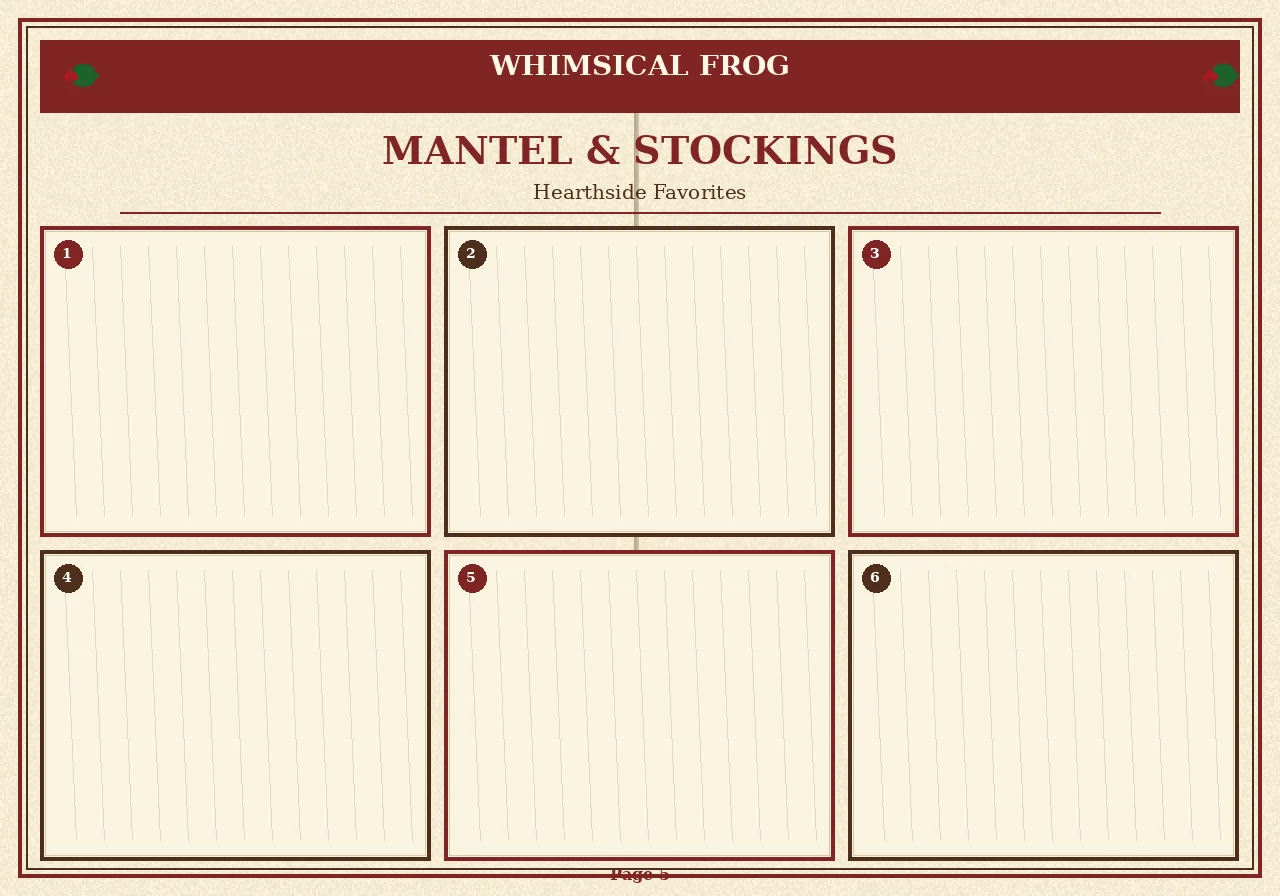
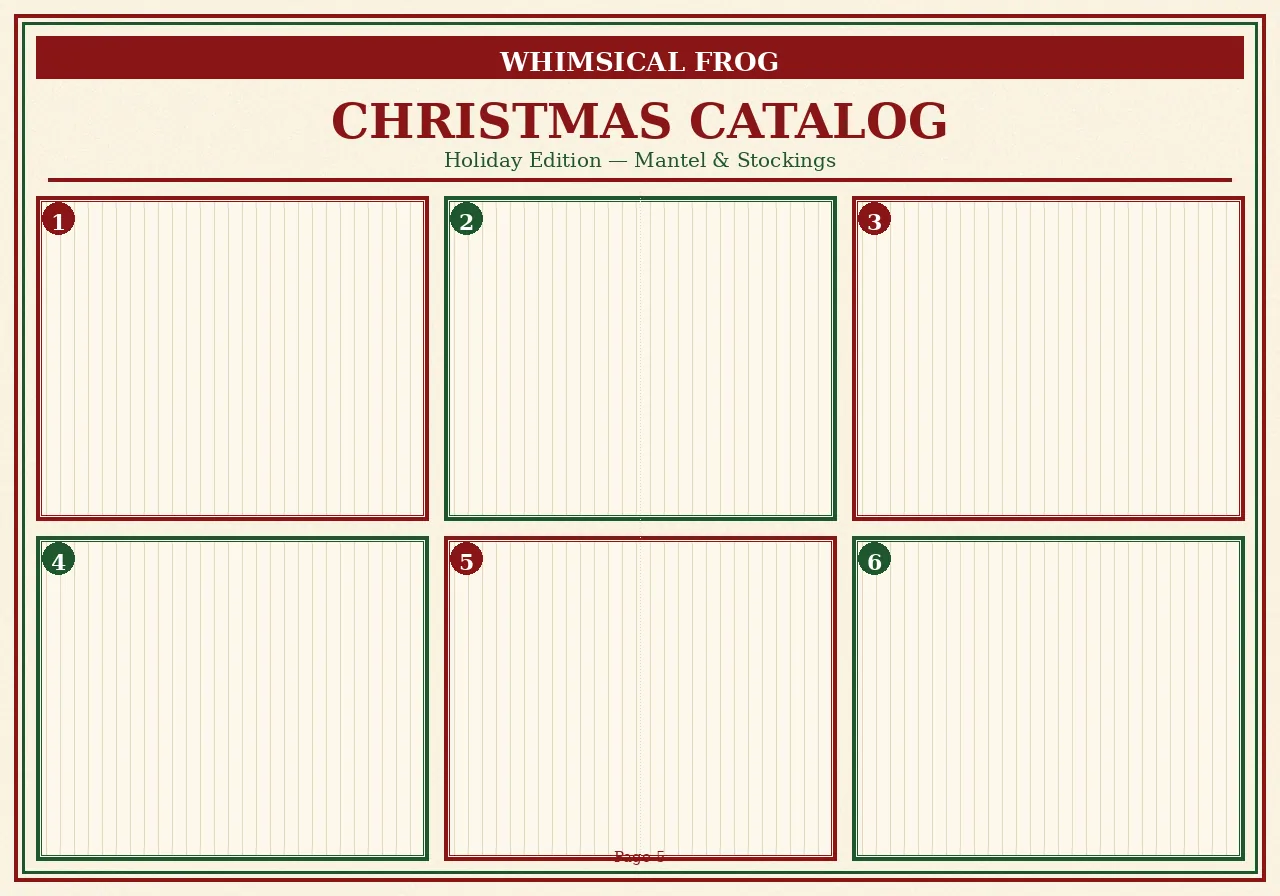
Close Christmas Catalog slot frames under page signs
Regenerate rooms 20–31 catalog backgrounds so slots 4 and 6 are complete
rectangles with no blank corner pads. Prev/next signs overlay the art.

Changed region(s): [[0.0, 0.0, 1.0, 1.0], [0.375, 0.9062, 0.4062, 0.9375]]

diff --git a/scripts/dev/generate_christmas_catalog_pages.py b/scripts/dev/generate_christmas_catalog_pages.py
@@ -1,0 +1,145 @@
+#!/usr/bin/env python3
+"""Generate Whimsical Frog Christmas Catalog page backgrounds (rooms 20–31).
+
+Item-slot rectangles are always complete closed frames. Previous/Next page
+signs are separate overlay assets positioned by room maps — never cut blank
+pads into these backgrounds for navigation buttons.
+
+Usage:
+  python3 scripts/dev/generate_christmas_catalog_pages.py
+"""
+from __future__ import annotations
+
+import os
+from pathlib import Path
+
+import numpy as np
+from PIL import Image, ImageDraw, ImageFont
+
+W, H = 1280, 896
+ROOT = Path(__file__).resolve().parents[2]
+OUT = ROOT / 'images' / 'backgrounds' / 'realistic'
+RED = (137, 22, 22)
+GREEN = (30, 87, 44)
+CREAM = (250, 243, 225)
+
+PAGES = [
+    (20, 1, 'Holiday Edition — Cover'),
+    (21, 2, 'Holiday Edition — Ornaments'),
+    (22, 3, 'Holiday Edition — Tree Trimmings'),
+    (23, 4, 'Holiday Edition — Lights & Sparkle'),
+    (24, 5, 'Holiday Edition — Mantel & Stockings'),
+    (25, 6, 'Holiday Edition — Gifts Under the Tree'),
+    (26, 7, 'Holiday Edition — Table & Centerpieces'),
+    (27, 8, 'Holiday Edition — Kitchen Cheer'),
+    (28, 9, 'Holiday Edition — Kids & Toys'),
+    (29, 10, 'Holiday Edition — Cozy Apparel'),
+    (30, 11, 'Holiday Edition — Outdoor Yard'),
+    (31, 12, 'Holiday Edition — Wishlist Finale'),
+]
+
+
+def try_font(size: int, bold: bool = False) -> ImageFont.ImageFont:
+    candidates = [
+        '/usr/share/fonts/truetype/dejavu/DejaVuSerif-Bold.ttf' if bold else '/usr/share/fonts/truetype/dejavu/DejaVuSerif.ttf',
+        '/usr/share/fonts/truetype/liberation/LiberationSerif-Bold.ttf' if bold else '/usr/share/fonts/truetype/liberation/LiberationSerif-Regular.ttf',
+    ]
+    for path in candidates:
+        if os.path.exists(path):
+            return ImageFont.truetype(path, size)
+    return ImageFont.load_default()
+
+
+def stroke_rect(draw: ImageDraw.ImageDraw, box: tuple[int, int, int, int], color: tuple[int, int, int], width: int = 3) -> None:
+    """Draw a rectangle with joined corners (filled edge strips)."""
+    x0, y0, x1, y1 = box
+    draw.rectangle([x0, y0, x1, y0 + width - 1], fill=color)
+    draw.rectangle([x0, y1 - width + 1, x1, y1], fill=color)
+    draw.rectangle([x0, y0, x0 + width - 1, y1], fill=color)
+    draw.rectangle([x1 - width + 1, y0, x1, y1], fill=color)
+
+
+def make_page(page: int, subtitle: str) -> Image.Image:
+    rng = np.random.default_rng(2000 + page)
+    base = np.zeros((H, W, 3), dtype=np.uint8)
+    base[:, :] = CREAM
+    noise = rng.normal(0, 4.0, (H, W, 3))
+    arr = np.clip(base.astype(np.float32) + noise, 0, 255).astype(np.uint8)
+    img = Image.fromarray(arr)
+    draw = ImageDraw.Draw(img)
+
+    # Full outer frames — never cut corners for buttons
+    stroke_rect(draw, (14, 14, W - 15, H - 15), RED, 4)
+    stroke_rect(draw, (22, 22, W - 23, H - 23), GREEN, 3)
+
+    draw.rectangle([36, 36, W - 37, 78], fill=RED)
+    font_brand = try_font(26, True)
+    brand = 'WHIMSICAL FROG'
+    bb = draw.textbbox((0, 0), brand, font=font_brand)
+    draw.text(((W - (bb[2] - bb[0])) // 2, 46), brand, fill=(255, 255, 255), font=font_brand)
+
+    font_title = try_font(48, True)
+    title = 'CHRISTMAS CATALOG'
+    bb = draw.textbbox((0, 0), title, font=font_title)
+    draw.text(((W - (bb[2] - bb[0])) // 2, 92), title, fill=RED, font=font_title)
+
+    font_sub = try_font(20)
+    bb = draw.textbbox((0, 0), subtitle, font=font_sub)
+    draw.text(((W - (bb[2] - bb[0])) // 2, 148), subtitle, fill=GREEN, font=font_sub)
+    draw.rectangle([48, 178, W - 49, 181], fill=RED)
+
+    # Slots fill nearly to the frame — no reserved blank pads for prev/next
+    margin_x = 36
+    frame_inner = 28
+    top = 196
+    gap = 16
+    bottom_limit = H - frame_inner - 8
+    usable_w = W - 2 * margin_x
+    usable_h = bottom_limit - top
+    slot_w = (usable_w - 2 * gap) // 3
+    slot_h = (usable_h - gap) // 2
+
+    font_num = try_font(22, True)
+    n = 1
+    for row in range(2):
+        for col in range(3):
+            x0 = margin_x + col * (slot_w + gap)
+            y0 = top + row * (slot_h + gap)
+            x1 = x0 + slot_w
+            y1 = y0 + slot_h
+            color = RED if n % 2 == 1 else GREEN
+            draw.rectangle([x0 + 4, y0 + 4, x1 - 4, y1 - 4], fill=(252, 248, 236))
+            for x in range(x0 + 10, x1 - 6, 14):
+                draw.line([(x, y0 + 6), (x, y1 - 6)], fill=(230, 215, 189), width=1)
+            stroke_rect(draw, (x0, y0, x1, y1), color, 4)
+            stroke_rect(draw, (x0 + 5, y0 + 5, x1 - 5, y1 - 5), color, 1)
+            cx, cy = x0 + 22, y0 + 22
+            draw.ellipse([cx - 16, cy - 16, cx + 16, cy + 16], fill=color)
+            num = str(n)
+            nb = draw.textbbox((0, 0), num, font=font_num)
+            draw.text((cx - (nb[2] - nb[0]) // 2, cy - (nb[3] - nb[1]) // 2 - 1), num, fill=(255, 255, 255), font=font_num)
+            n += 1
+
+    font_foot = try_font(15)
+    page_txt = f'Page {page}'
+    bb = draw.textbbox((0, 0), page_txt, font=font_foot)
+    draw.text(((W - (bb[2] - bb[0])) // 2, H - 48), page_txt, fill=RED, font=font_foot)
+
+    for y in range(190, H - 40):
+        if y % 3 == 0:
+            img.putpixel((W // 2, y), (230, 215, 189))
+    return img
+
+
+def main() -> None:
+    OUT.mkdir(parents=True, exist_ok=True)
+    for room, page, subtitle in PAGES:
+        img = make_page(page, subtitle)
+        base = f'realistic-room{room}-christmas-catalog-p{page:02d}'
+        img.save(OUT / f'{base}.png', 'PNG', optimize=True)
+        img.save(OUT / f'{base}.webp', 'WEBP', quality=82, method=6)
+        print(f'wrote {base}')
+
+
+if __name__ == '__main__':
+    main()
